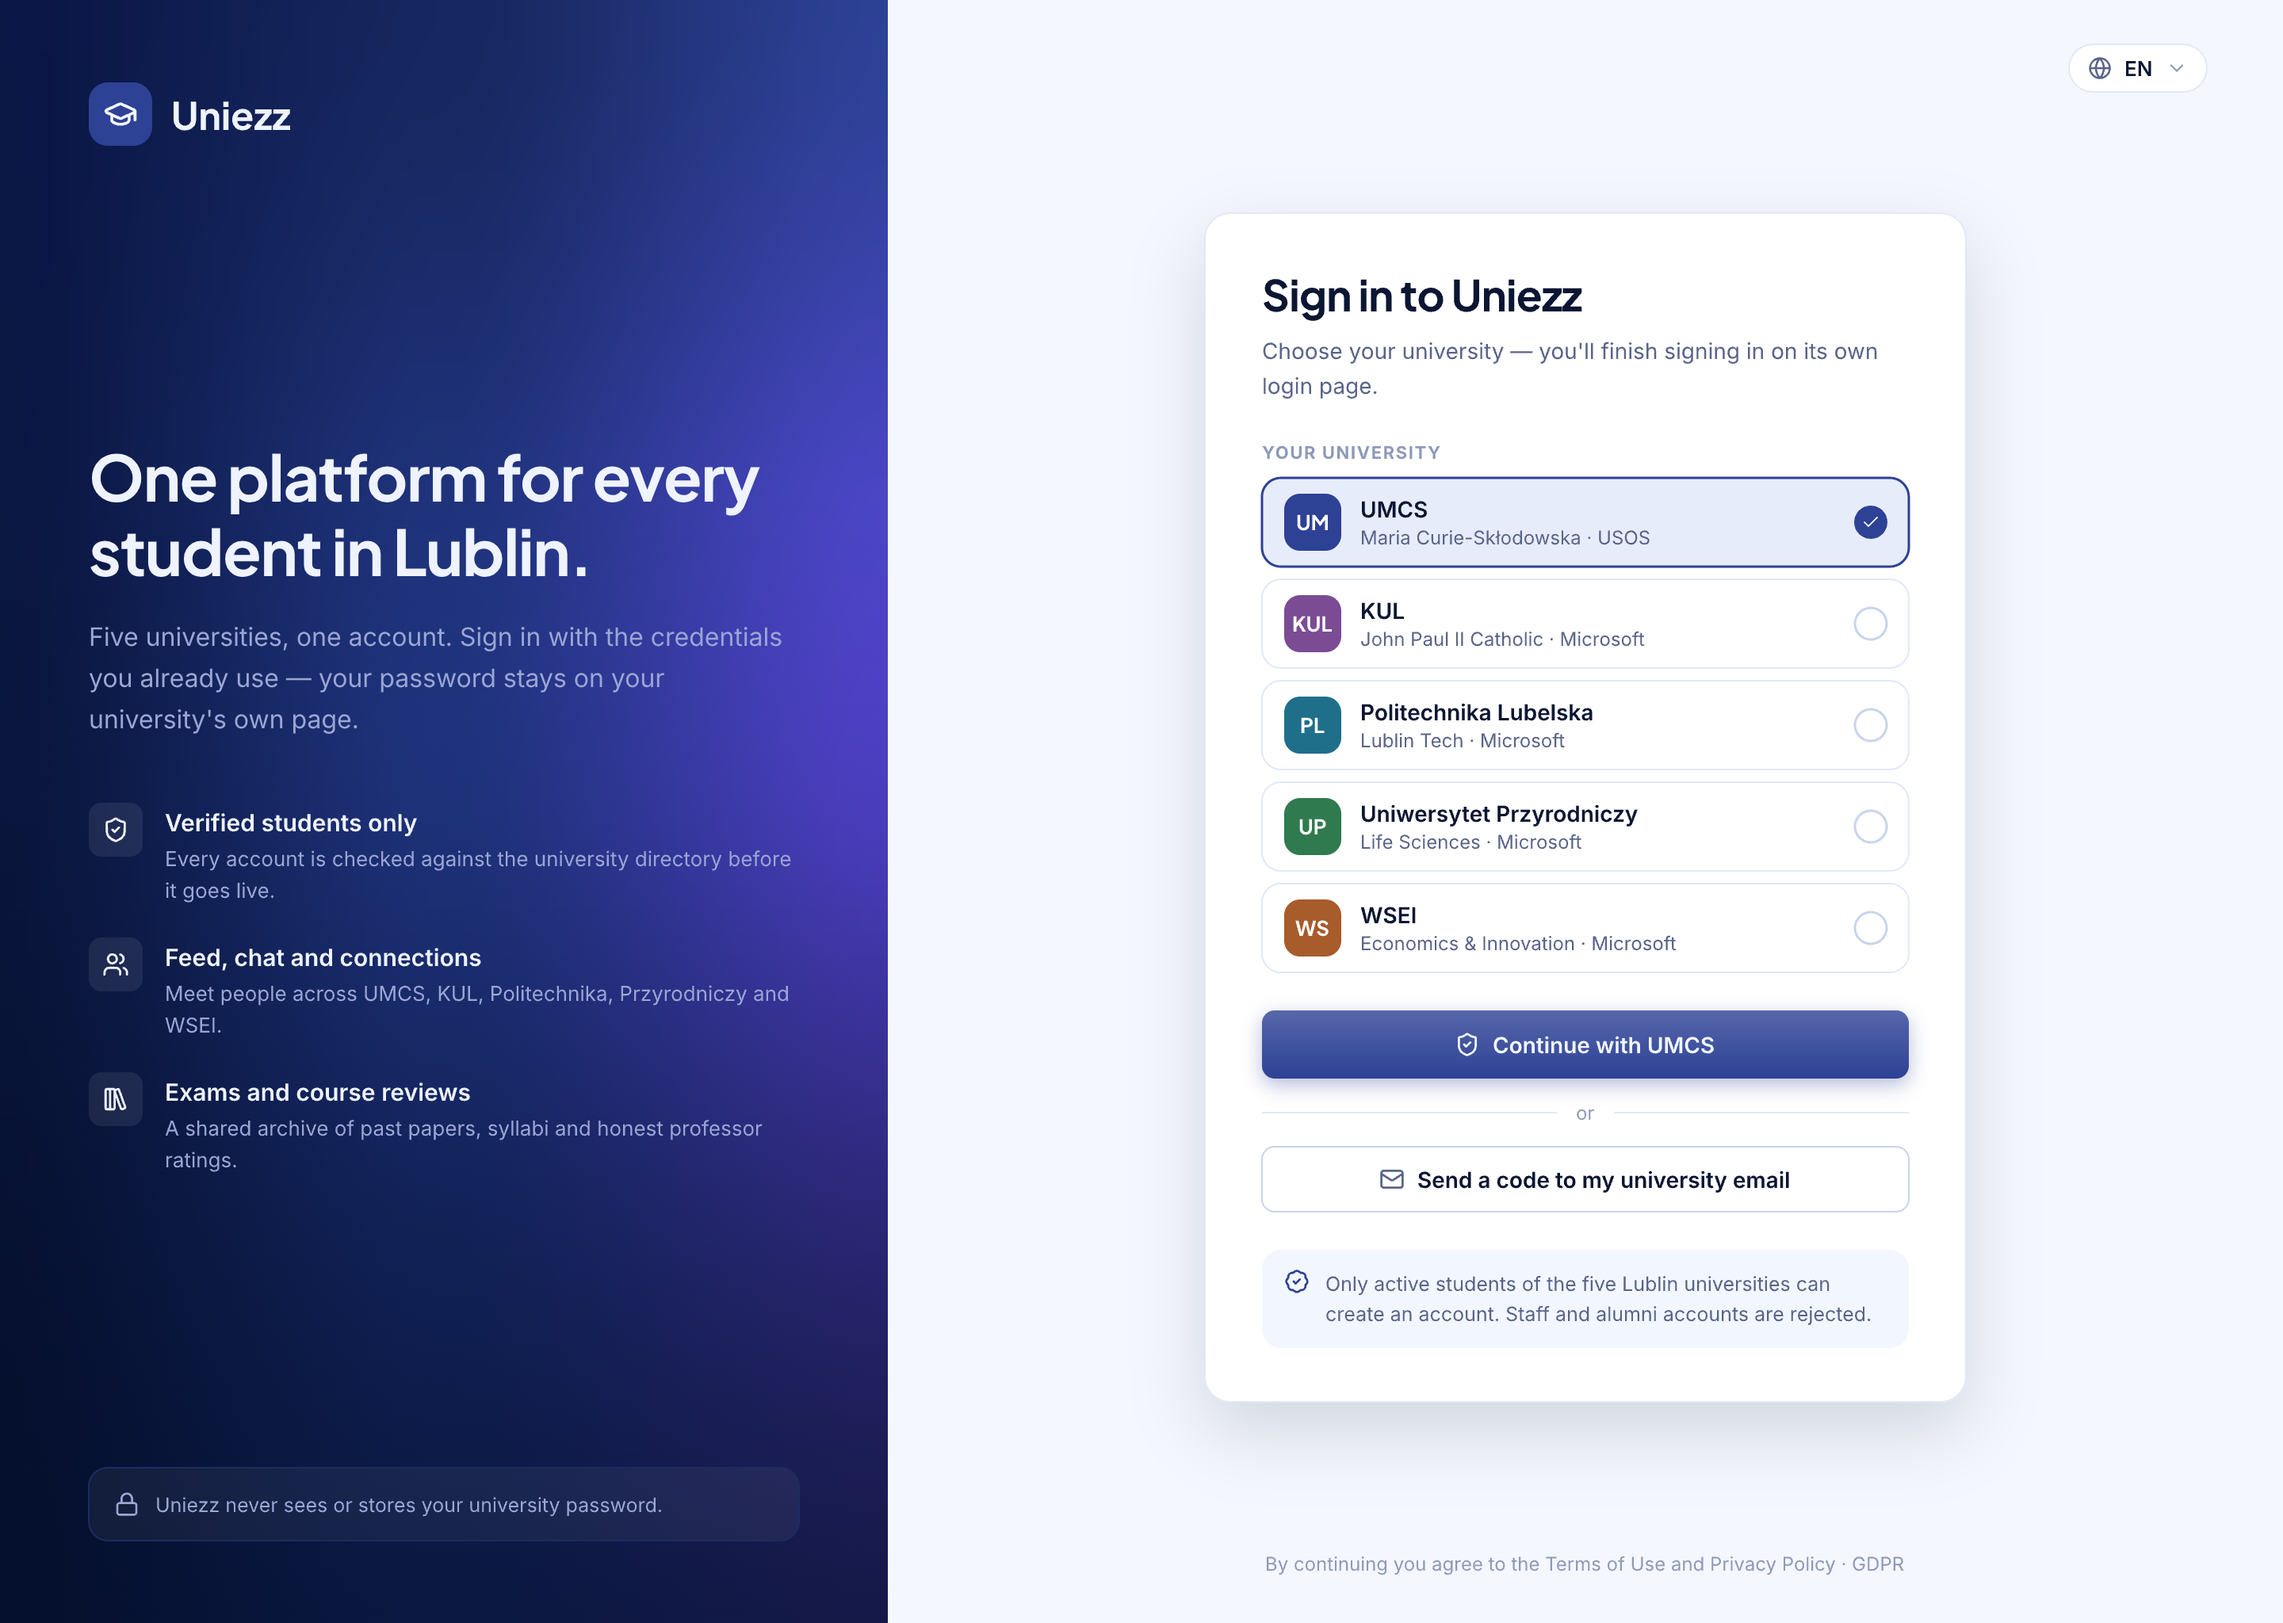
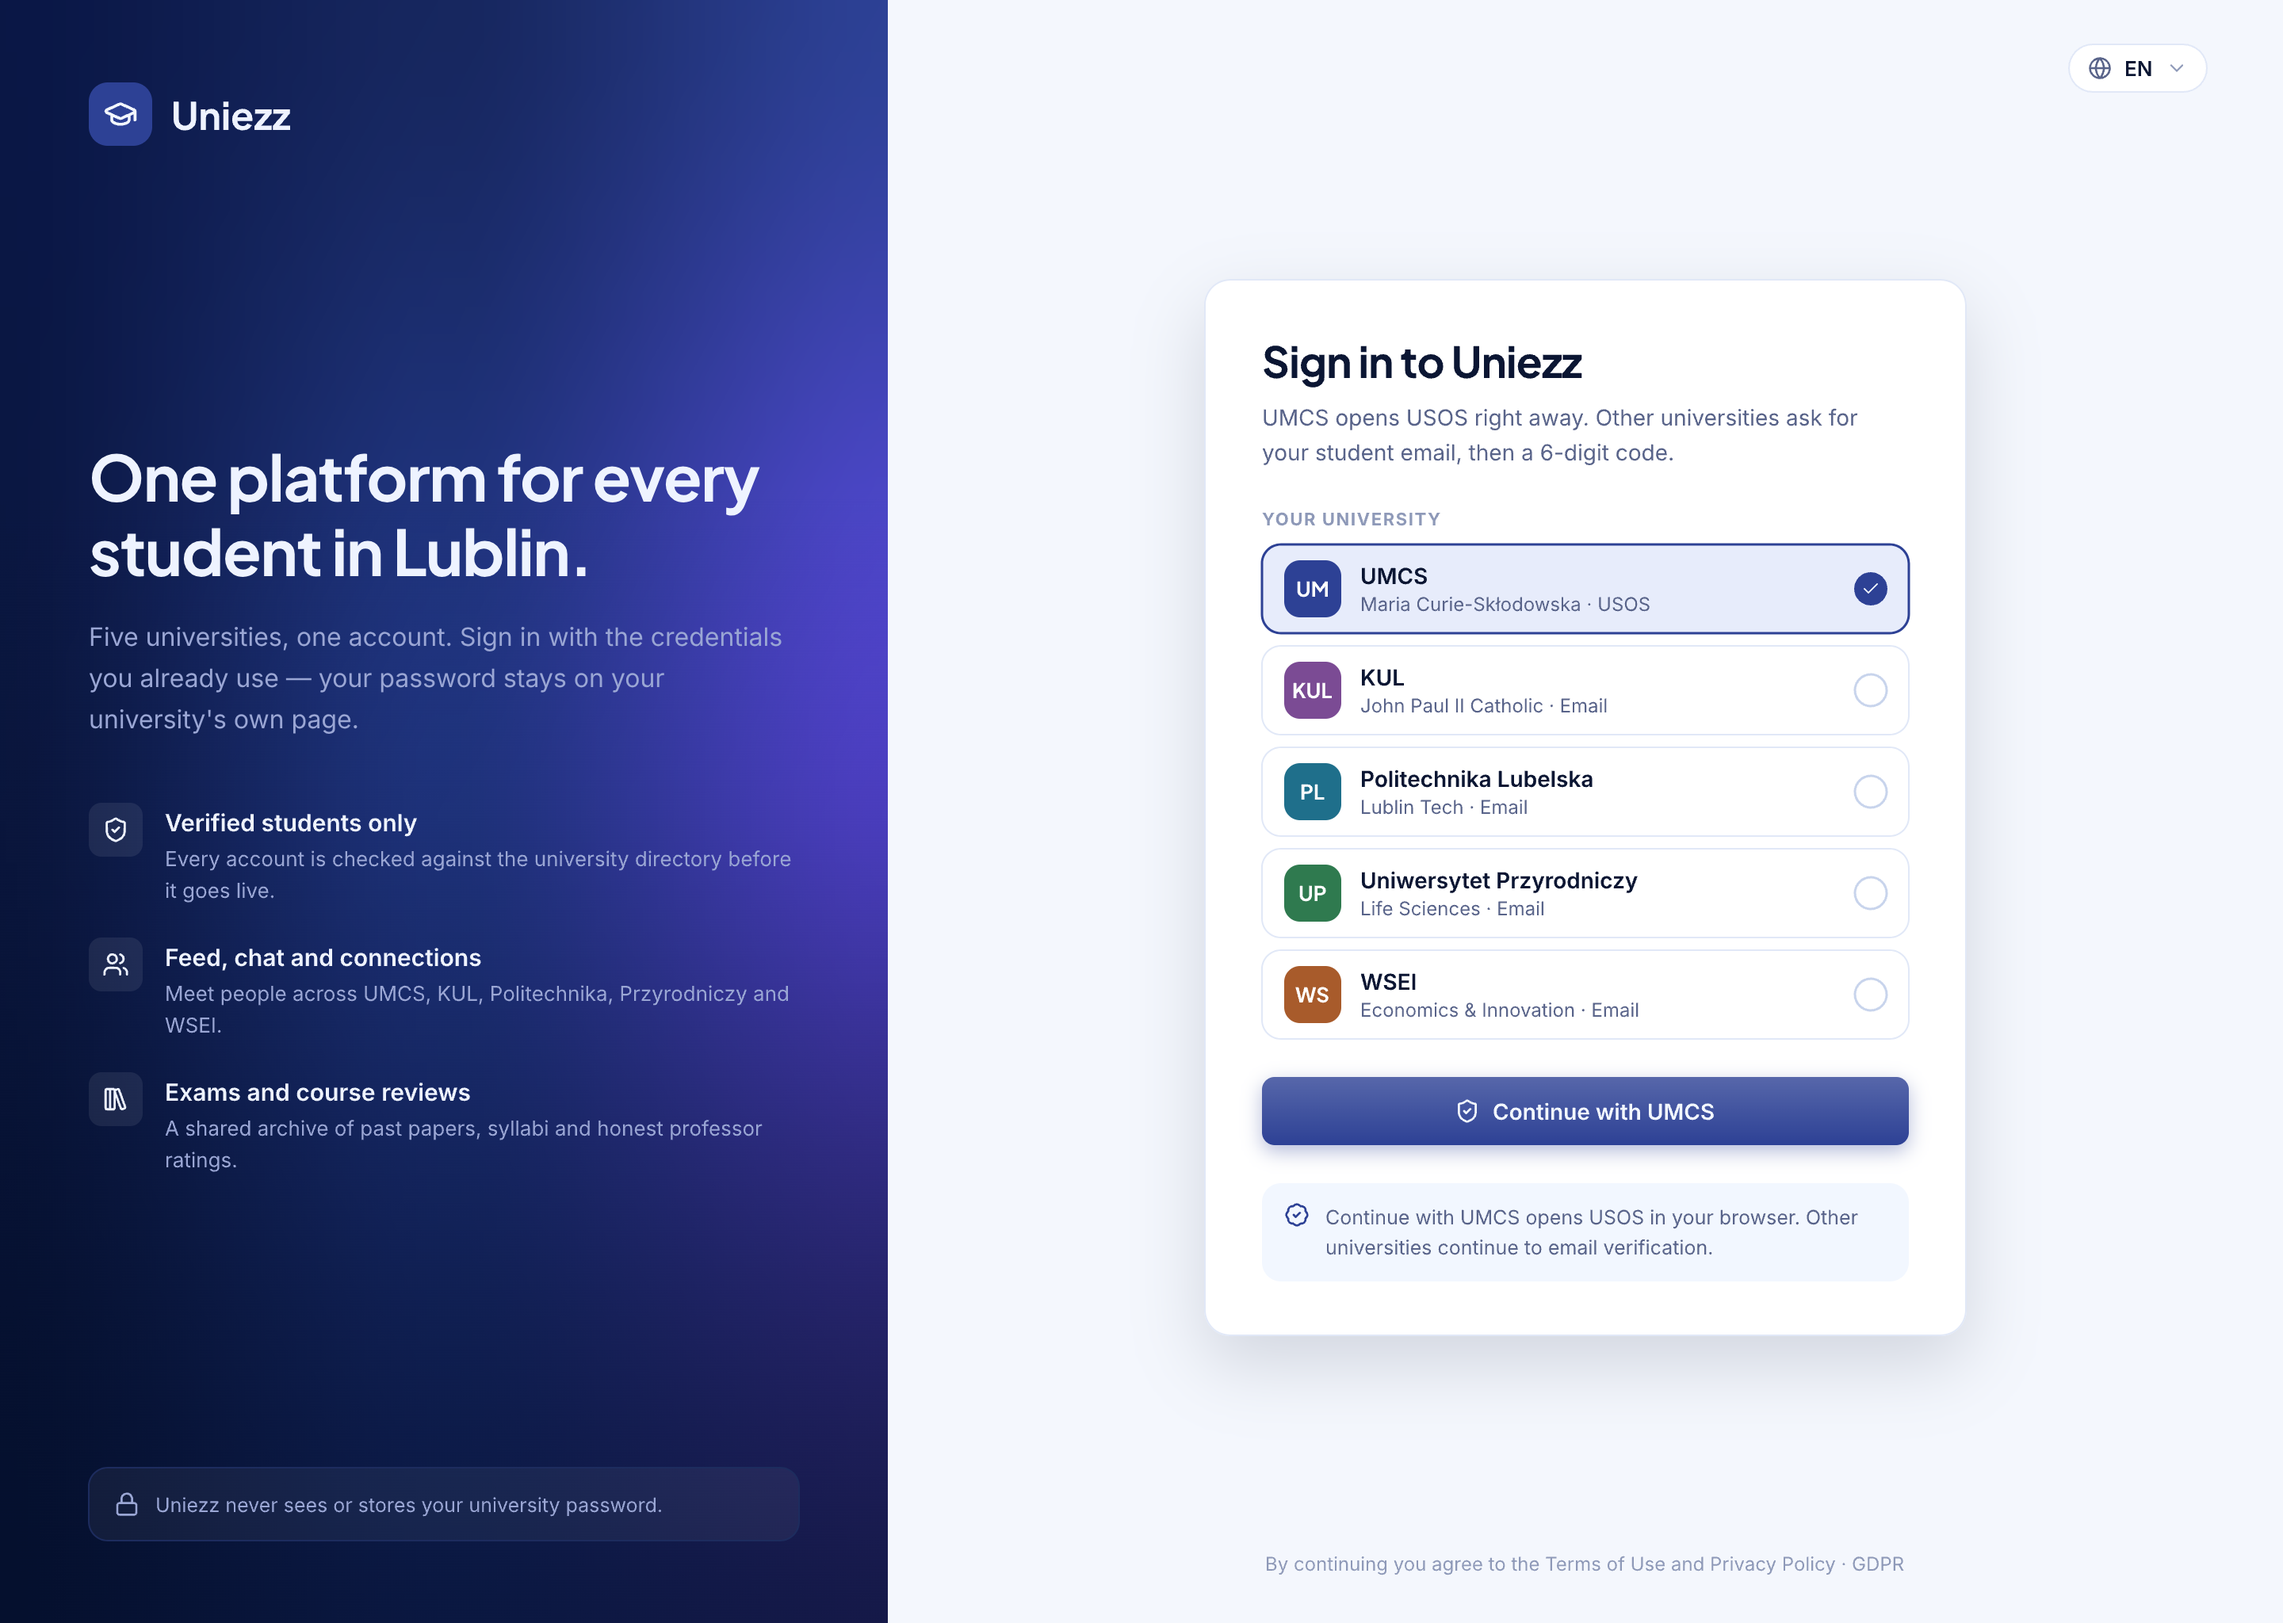
chore: update design

Changed region(s): [[0.5312, 0.1562, 0.875, 0.8438]]

diff --git a/docs/design/README.md b/docs/design/README.md
@@ -4,18 +4,29 @@ Source of truth: **`uniezz-web-app.pen`** (pen.dev). Everything below is exporte
 
 ## Screens
 
-| #   | Web (1440×1024)                                               | iOS (393×852)                               |
-| --- | ------------------------------------------------------------- | ------------------------------------------- |
-| 01  | [Sign In](exports/web/01-sign-in.png)                         | [Sign In](exports/ios/01-sign-in.png)       |
-| 02  | [Sign In · Email Code](exports/web/02-sign-in-email-code.png) | [Feed](exports/ios/02-feed.png)             |
-| 03  | [Feed](exports/web/03-feed.png)                               | [Chat](exports/ios/03-chat.png)             |
-| 04  | [Exams & Courses](exports/web/04-exams-and-courses.png)       | [Meet](exports/ios/04-meet.png)             |
-| 05  | [Chat](exports/web/05-chat.png)                               | [Study](exports/ios/05-study.png)           |
-| 06  | [Connections](exports/web/06-connections.png)                 | [Guide](exports/ios/06-guide.png)           |
-| 07  | [Student Guide](exports/web/07-student-guide.png)             | [Moderation](exports/ios/07-moderation.png) |
-| 08  | [Moderation Sign In](exports/web/08-moderation-sign-in.png)   | —                                           |
+| #   | Web (1440×1024)                                                            | iOS (393×852)                                        |
+| --- | -------------------------------------------------------------------------- | ---------------------------------------------------- |
+| 01  | [Sign In · UMCS / USOS](exports/web/01-sign-in.png)                        | [Sign In](exports/ios/01-sign-in.png)                |
+| 01b | [Sign In · Email university](exports/web/01b-sign-in-email-university.png) | [Sign In · Email](exports/ios/01b-sign-in-email.png) |
+| 02  | [Sign In · Email](exports/web/02-sign-in-email.png)                        | [Sign In · Code](exports/ios/01c-sign-in-code.png)   |
+| 02b | [Sign In · Code](exports/web/02b-sign-in-code.png)                         | —                                                    |
+| 03  | [Feed](exports/web/03-feed.png)                                            | [Feed](exports/ios/02-feed.png)                      |
+| 04  | [Exams & Courses](exports/web/04-exams-and-courses.png)                    | [Chat](exports/ios/03-chat.png)                      |
+| 05  | [Chat](exports/web/05-chat.png)                                            | [Meet](exports/ios/04-meet.png)                      |
+| 06  | [Connections](exports/web/06-connections.png)                              | [Study](exports/ios/05-study.png)                    |
+| 07  | [Student Guide](exports/web/07-student-guide.png)                          | [Guide](exports/ios/06-guide.png)                    |
+| 08  | [Moderation Sign In](exports/web/08-moderation-sign-in.png)                | [Moderation](exports/ios/07-moderation.png)          |
 
 Also: [Web UI Kit](exports/kit/00-ui-kit.png) · [iOS UIKit](exports/kit/uikit.png) · [States & Variants](exports/kit/states-variants.png) · [all screens as one PDF](exports/all-screens.pdf)
+
+### Student sign-in flow
+
+| Selection                        | Continue                                   | Next steps                               |
+| -------------------------------- | ------------------------------------------ | ---------------------------------------- |
+| **UMCS** (USOS)                  | Opens USOS auth in the browser immediately | User finishes on USOS → redirect to feed |
+| **Any other university** (Email) | Stays in Uniezz                            | Email input → 6-digit OTP → feed         |
+
+Same pattern as any OAuth provider (USOS today; Google-style IdP would also leave the app on Continue). Non-USOS universities use university-domain email + OTP — no password on Uniezz.
 
 The web app uses a left sidebar; mobile collapses it to five bottom tabs — **Feed · Chat · Meet · Study · Guide**. Tab bar is **iOS 26 liquid glass** (`UITabBar`). Status bar is native (not drawn). `My Profile` and `Saved` have no tab; profile sits behind the avatar in the app bar.
 
@@ -120,9 +131,9 @@ Documented on the **UIKit · States & Variants** board ([export](exports/kit/sta
 
 ## Notes on the moderation screens
 
-`08 · Moderation Sign In` and its iOS counterpart propose a **separate credential path** for moderators — email, password and a TOTP authenticator code — deliberately not the student login.
+`08 · Moderation Sign In` and `iOS · 07 Moderation` use a **separate credential path** — email and password only. Moderators can be outside any university; they are appointed, not verified as students. No authenticator / TOTP step.
 
-This is a design proposal, not a decided flow. [`../auth/AUTHENTICATION.en.md`](../auth/AUTHENTICATION.en.md) covers the three _student_ providers (USOS, Entra ID, email OTP) and says nothing about moderator authentication. The 30-minute idle timeout, the TOTP second factor and the queue statistics shown on the panel are all invented for the mock. Settle them in the auth doc before building.
+This is a design proposal, not a decided flow. [`../auth/AUTHENTICATION.en.md`](../auth/AUTHENTICATION.en.md) covers student providers and says nothing about moderator authentication yet. The 30-minute idle timeout and the queue statistics on the panel are invented for the mock — settle them in the auth doc before building.
 
 ## Regenerating the exports
 

diff --git a/docs/auth/AUTHENTICATION.en.md b/docs/auth/AUTHENTICATION.en.md
@@ -2,24 +2,32 @@
 
 ## Overview
 
-Uniezz verifies that a user is a real, active student before granting access. Five universities, three identity providers, one entry point on the **Go API** for web and mobile. No Supabase.
+Uniezz verifies that a user is a real, active student before granting access. Five universities, one entry point on the **Go API** for web and mobile. No Supabase.
 
-| University                   | Provider                  | Verified data                              |
-| ---------------------------- | ------------------------- | ------------------------------------------ |
-| **UMCS**                     | USOS API (OAuth 1.0a)     | Identity, faculty, programme, year         |
-| **Politechnika Lubelska**    | Microsoft Entra ID (OIDC) | Identity, university; faculty if published |
-| **Uniwersytet Przyrodniczy** | Microsoft Entra ID (OIDC) | Identity, university; faculty if published |
-| **KUL**                      | Microsoft Entra ID (OIDC) | Identity, university; faculty if published |
-| **WSEI**                     | Microsoft Entra ID (OIDC) | Identity, university; faculty if published |
-| _any of the five_            | Email OTP                 | University domain only — fallback          |
+### Designed sign-in UX
+
+| Selection                          | On **Continue**                                                                          | Then                                  |
+| ---------------------------------- | ---------------------------------------------------------------------------------------- | ------------------------------------- |
+| **UMCS**                           | Immediately open USOS auth (same idea as Google OAuth — leave Uniezz, finish at the IdP) | USOS redirect → feed                  |
+| **KUL · Politechnika · UP · WSEI** | Stay in Uniezz                                                                           | University email → 6-digit OTP → feed |
+
+| University                   | Provider in product UX | Verified data                      |
+| ---------------------------- | ---------------------- | ---------------------------------- |
+| **UMCS**                     | USOS API (OAuth 1.0a)  | Identity, faculty, programme, year |
+| **Politechnika Lubelska**    | Email OTP              | University domain only             |
+| **Uniwersytet Przyrodniczy** | Email OTP              | University domain only             |
+| **KUL**                      | Email OTP              | University domain only             |
+| **WSEI**                     | Email OTP              | University domain only             |
+
+Microsoft Entra ID (OIDC) remains a **future option** for the four non-USOS universities if tenant admin consent lands; until then the Continue path is email OTP (see Provider 2 notes below).
 
 ### Approaches Considered
 
 | Approach                           | Verdict                                                                   |
 | ---------------------------------- | ------------------------------------------------------------------------- |
 | **USOS API (OAuth 1.0a)**          | Chosen for UMCS. Official, verified data, self-service registration       |
-| **Microsoft Entra ID (OIDC)**      | Chosen for the other four. All five run Entra tenants                     |
-| **Email OTP on university domain** | Fallback when admin consent blocks the Entra app                          |
+| **Email OTP on university domain** | Chosen for the other four in the current UX                               |
+| **Microsoft Entra ID (OIDC)**      | Planned upgrade for the other four when admin consent is available        |
 | Moodle Web Services                | Rejected. Token issued manually by university IT                          |
 | Scraping the campus login form     | Rejected. Handling university passwords is a legal and security liability |
 
